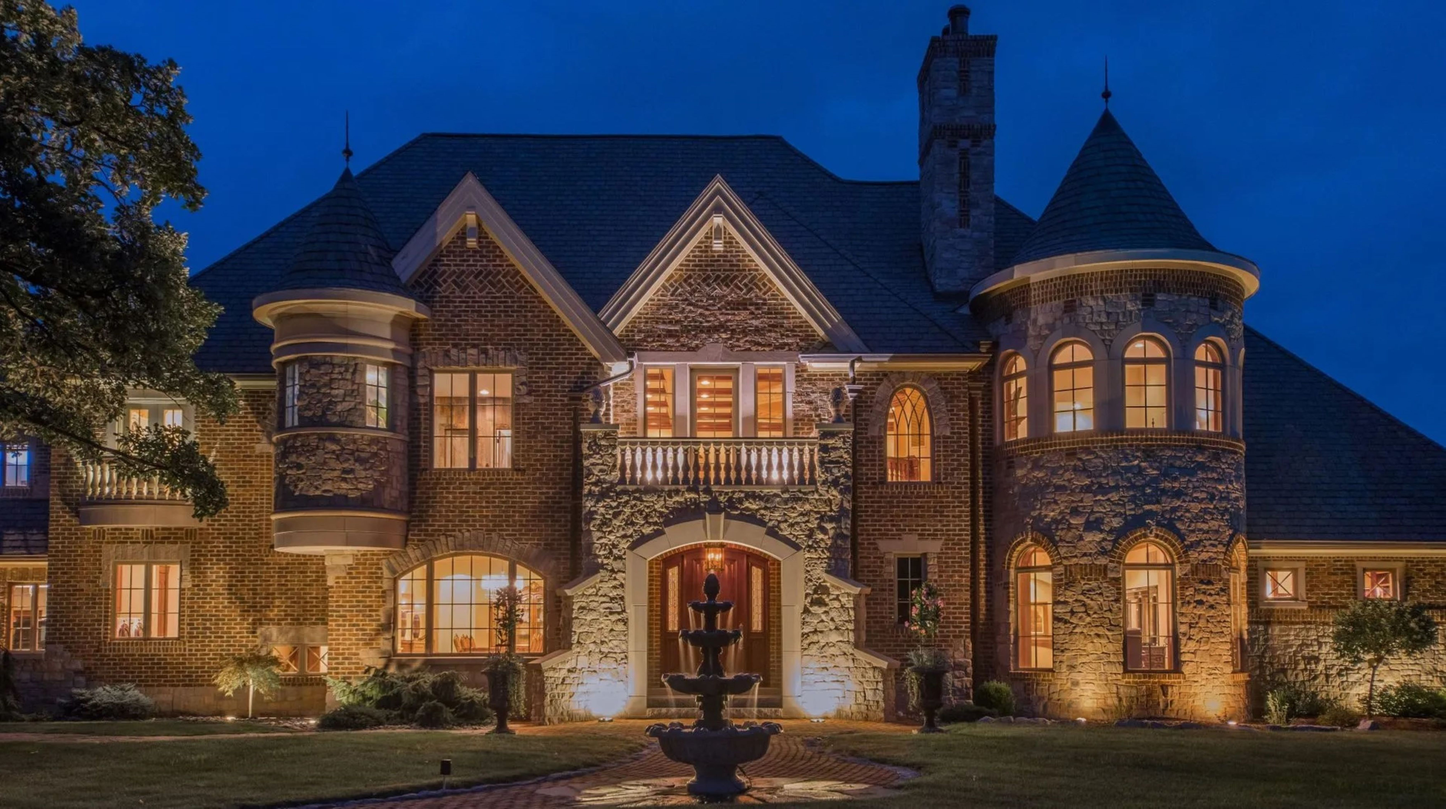
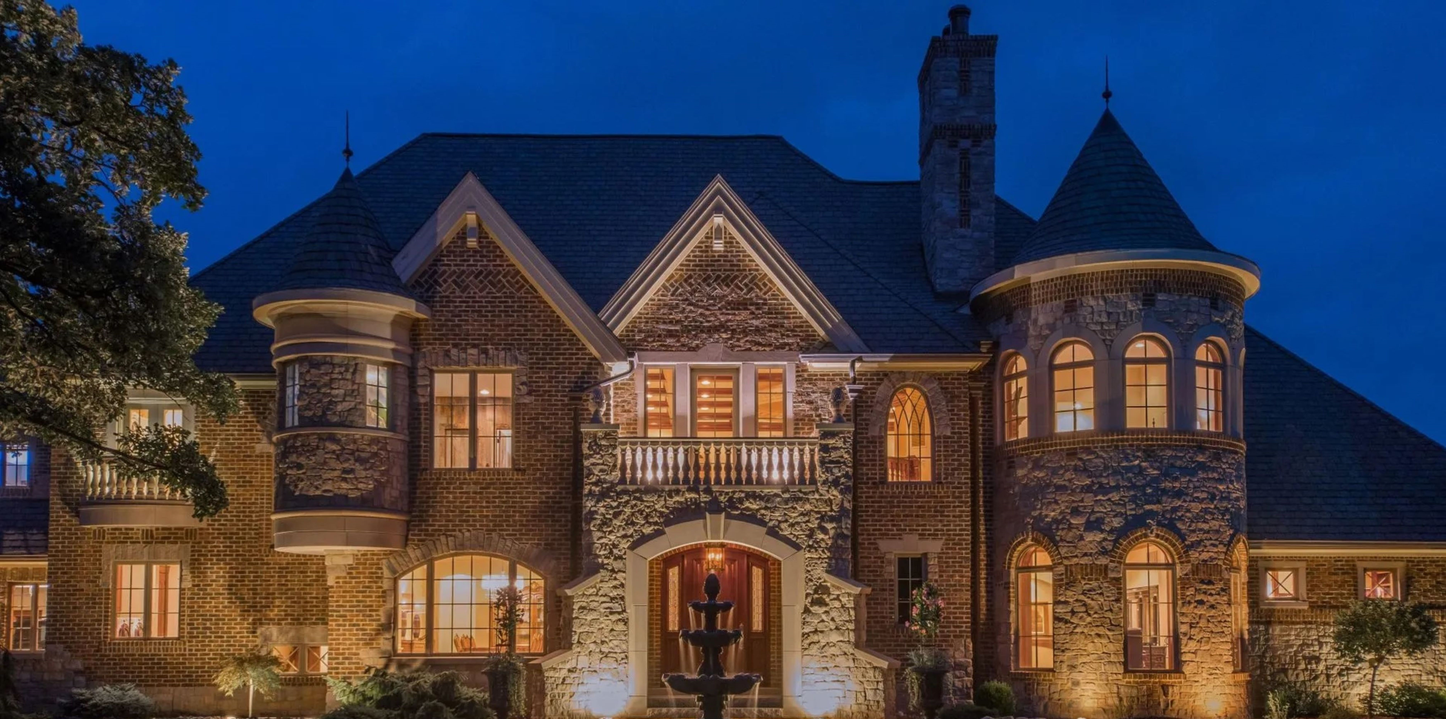
Thirty-fifth commit
Made some Minor changes

diff --git a/templates/rooms/room_list.html b/templates/rooms/room_list.html
@@ -8,7 +8,7 @@ Home
 
 <div class="container mx-auto pb-10">
 
-    <div class="rounded-xl bg-gray-800 -mx-24 h-50vh mt-32 mb-24 bg-cover bg-center"
+    <div class="rounded-xl bg-gray-800 -mx-24 h-75vh mt-32 mb-24 bg-cover bg-center"
         style="background-image:url({% static 'img/bg.jpg' %});"></div>
 
     <div class="flex flex-wrap -mx-24 mb-10">
